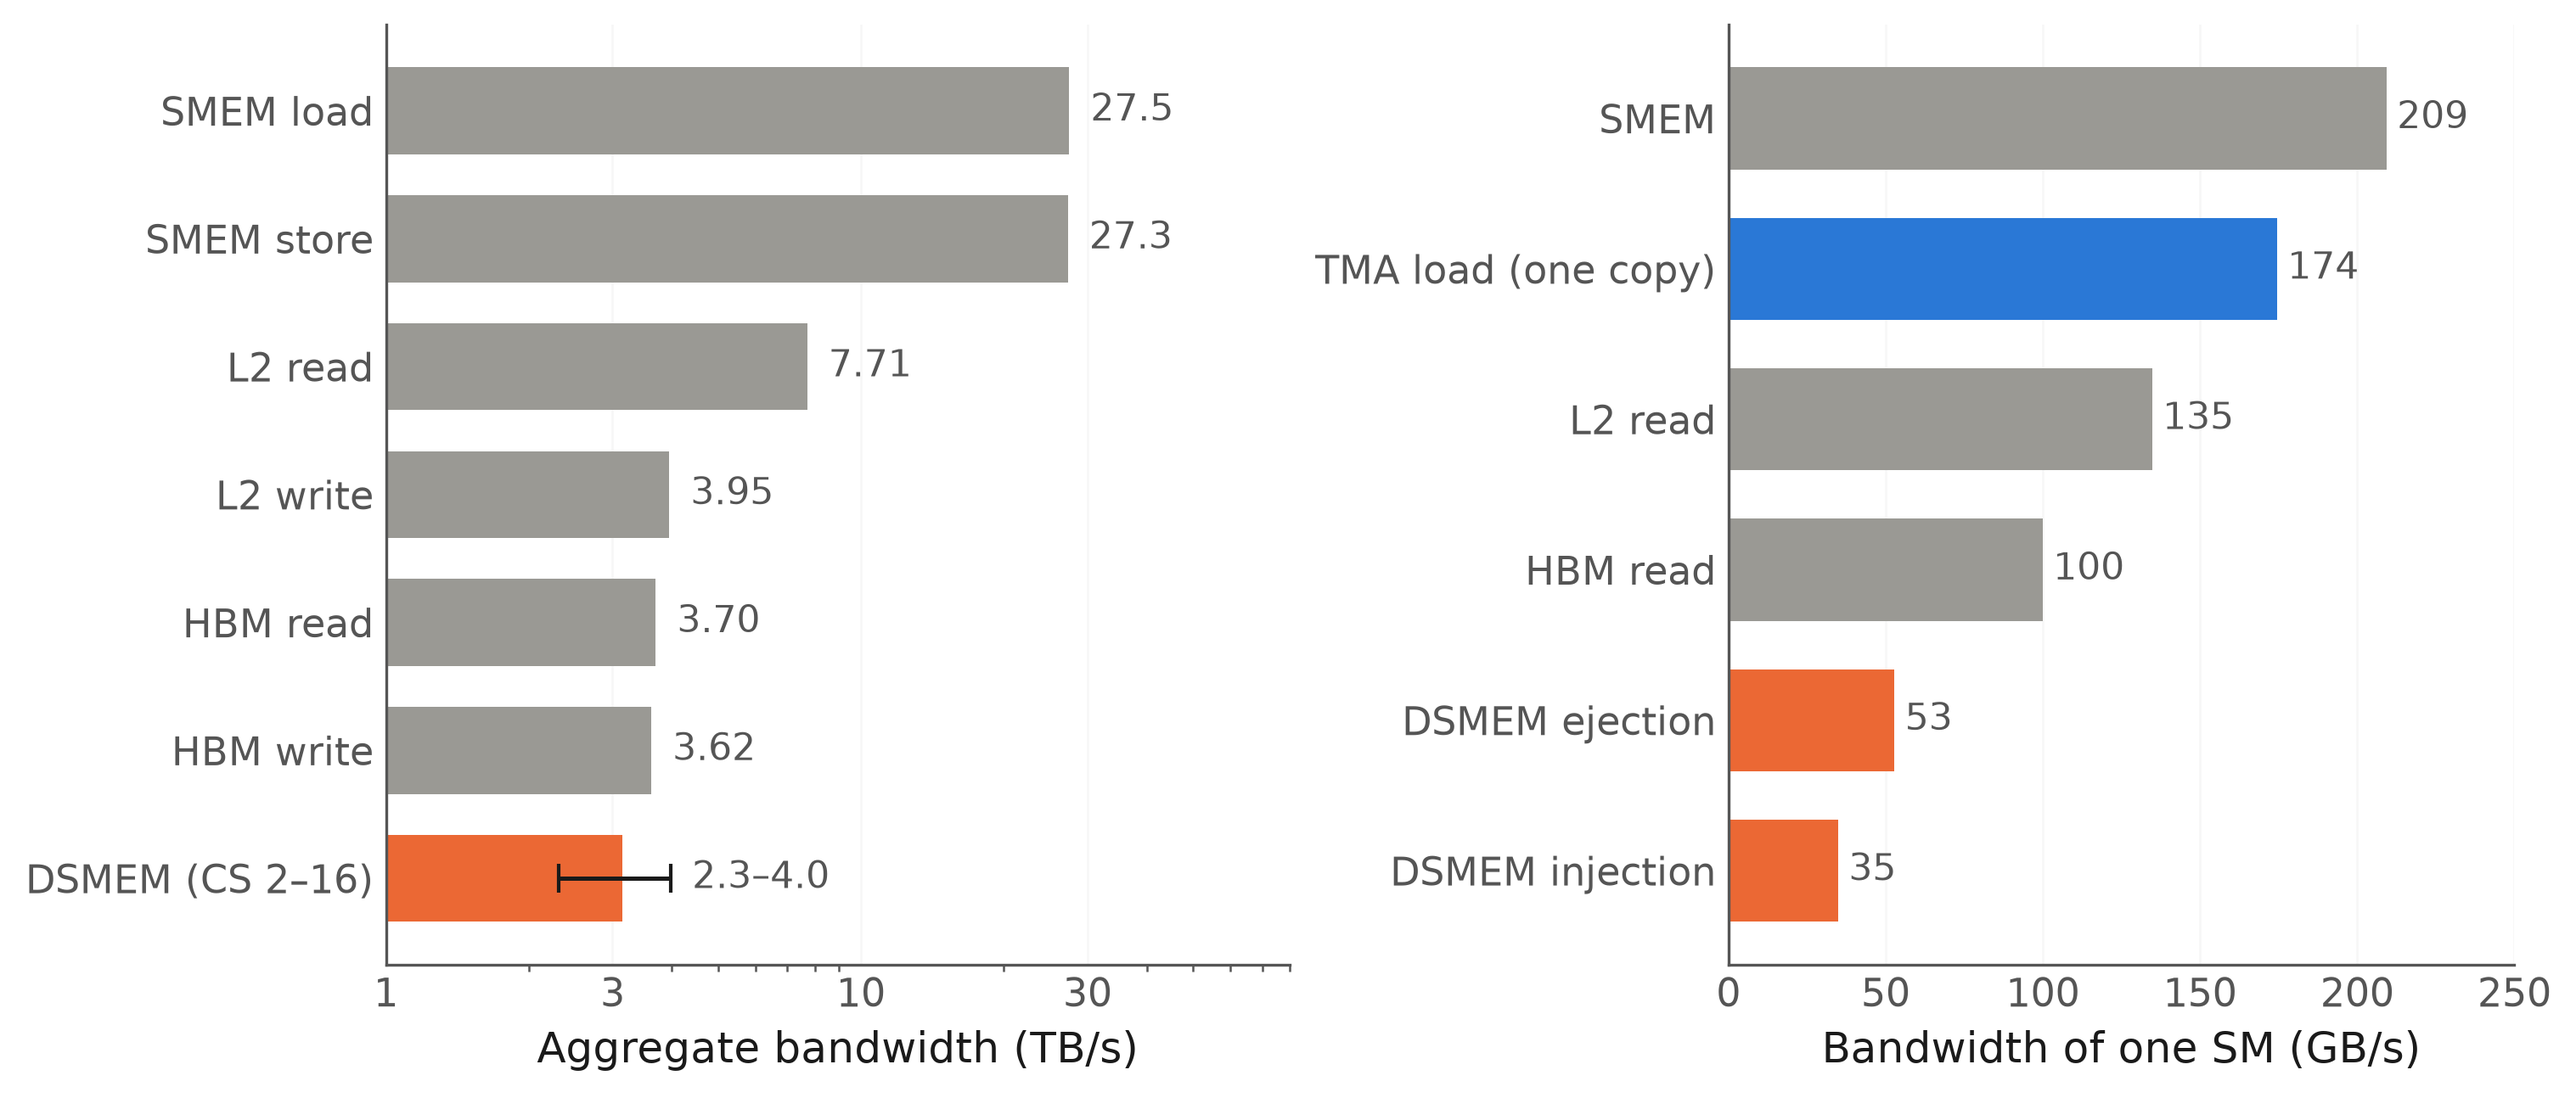
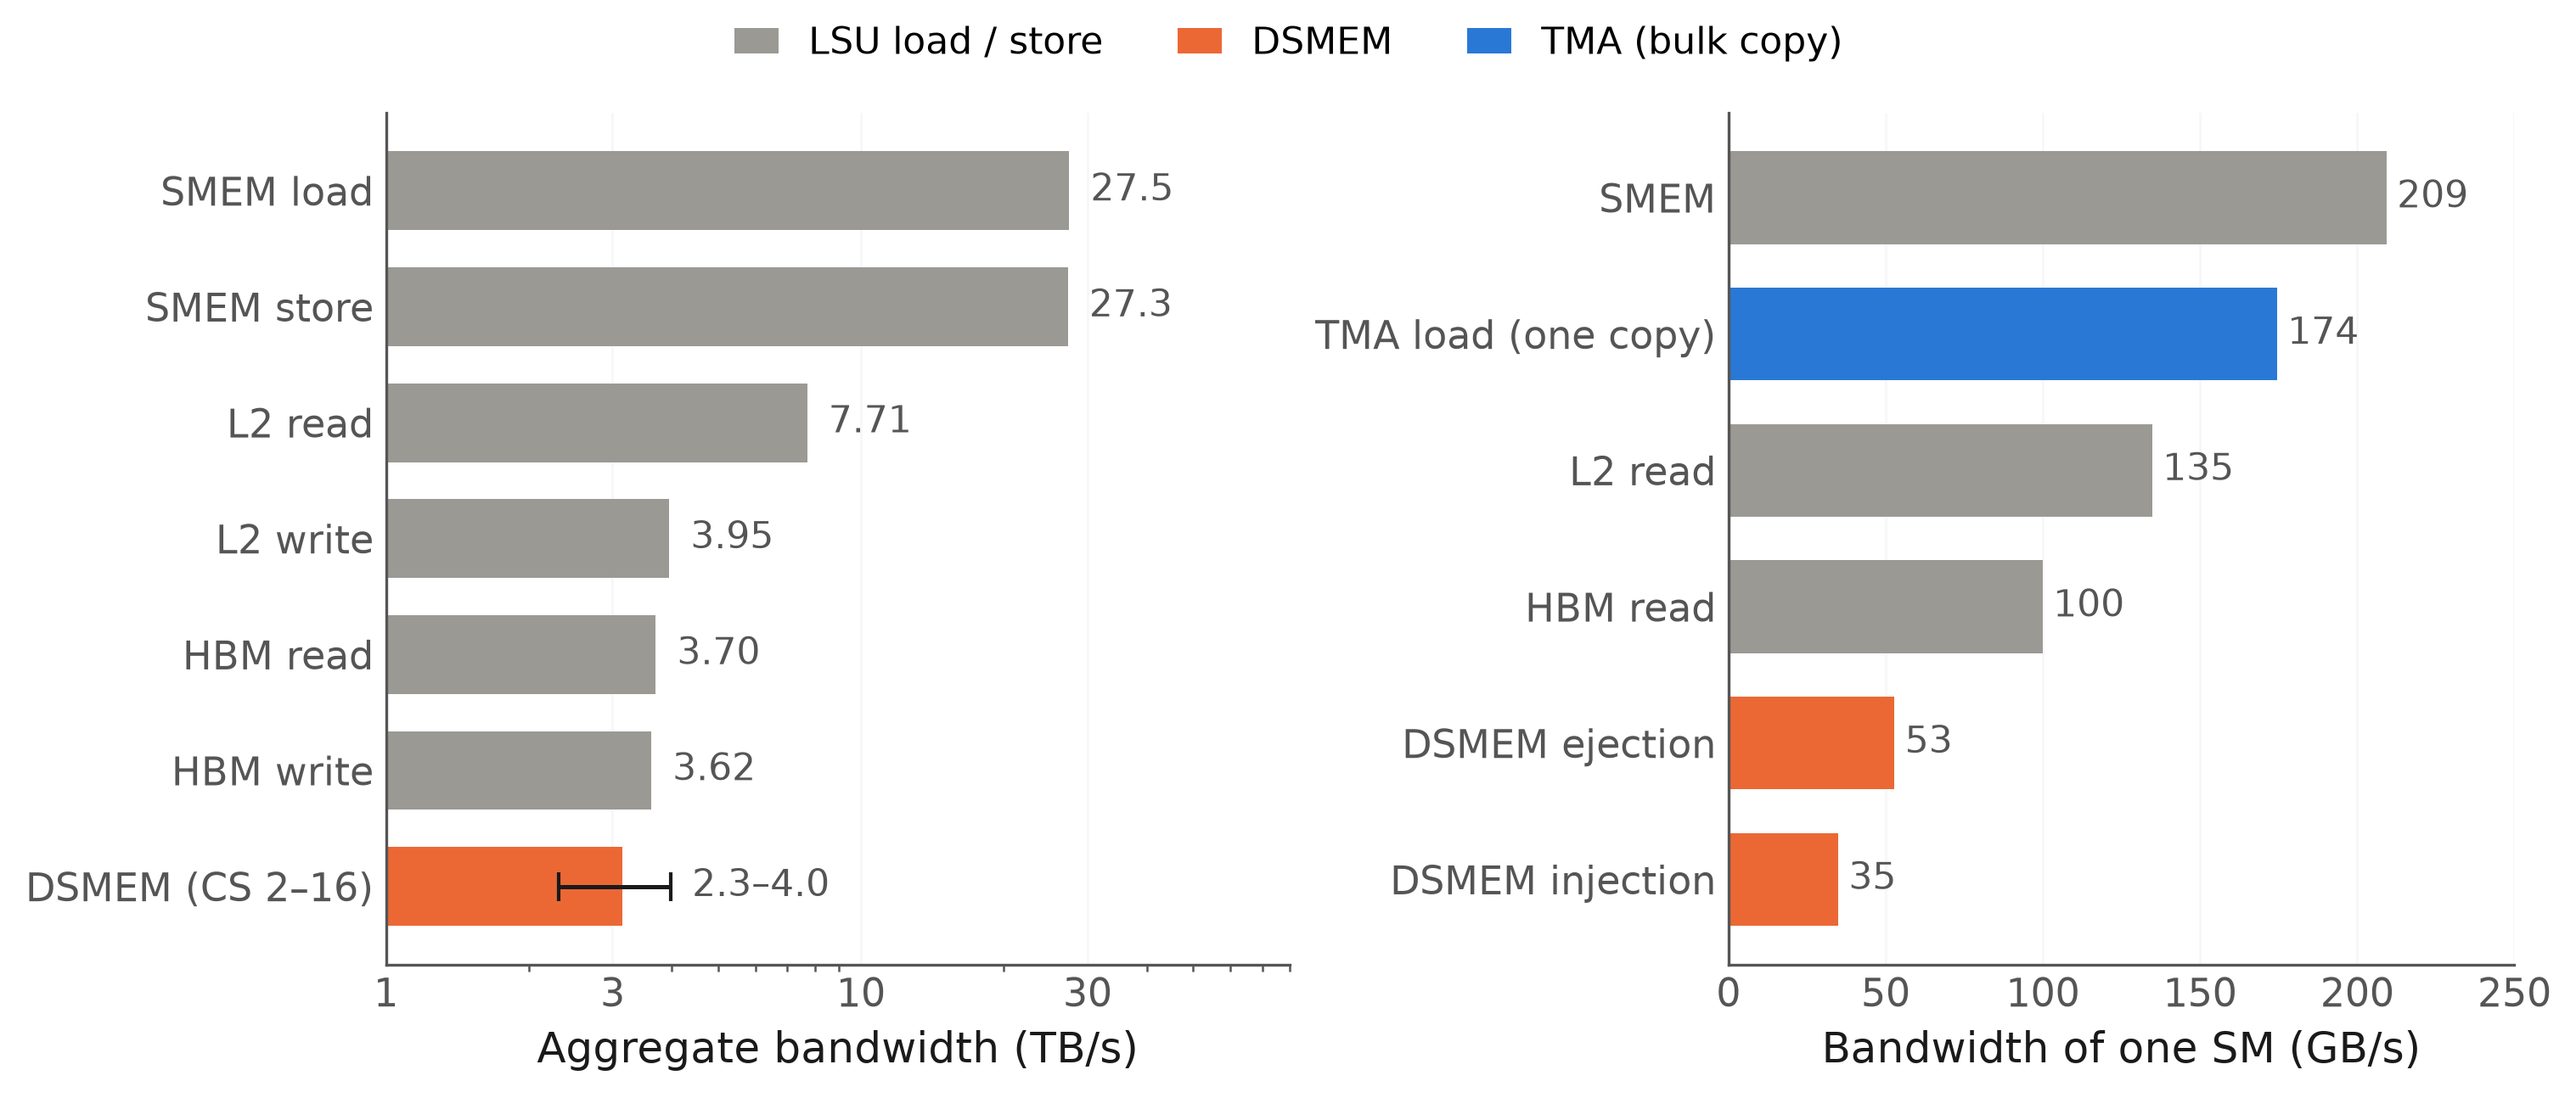
presentation: legend (LSU load/store, DSMEM, TMA) on the memory-hierarchy figures

diff --git a/presentation/make_figures.py b/presentation/make_figures.py
@@ -49,6 +49,10 @@ def bar_labels(ax, rects, fmt="{:.0f}", horizontal=False, pad=3, size=10.5):
 
 
 # =============================================================================================== slide 1
+MEM_LEGEND = [Patch(color=S.GREY, label="LSU load / store"), Patch(color=S.ORANGE, label="DSMEM"),
+              Patch(color=S.BLUE, label="TMA (bulk copy)")]
+
+
 def mem_latency():
     a = A.facts()
     rows = [("SMEM", a["lat_smem_cycles"], S.GREY), ("L1", a["lat_l1_cycles"], S.GREY),
@@ -69,6 +73,7 @@ def mem_latency():
     ax.grid(axis="x", visible=True)
     ax.set_xlim(0, 780)
     ax.set_xlabel("Latency (cycles)")
+    f.legend(handles=MEM_LEGEND, loc="outside upper center", ncol=3, fontsize=10.5)
     for r in rows:
         note(1, f"latency {r[0]}", round(r[1], 1))
     note(1, "plain ld.global chase L2 / HBM", (a["lat_l2_chase_cycles"], a["lat_hbm_chase_cycles"]))
@@ -128,6 +133,7 @@ def mem_bandwidth():
     a2.grid(axis="x", visible=True)
     a2.set_xlim(0, 250)
     a2.set_xlabel("Bandwidth of one SM (GB/s)")
+    f.legend(handles=MEM_LEGEND, loc="outside upper center", ncol=3, fontsize=10.5)
     for lab, v, _ in agg:
         note(1, f"aggregate {lab} TB/s", round(v, 2))
     note(1, "aggregate DSMEM TB/s range", (dmin, dmax))
